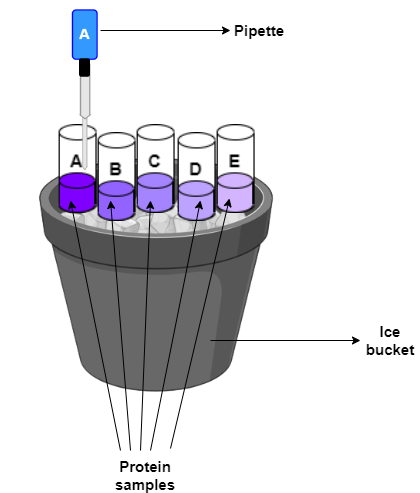
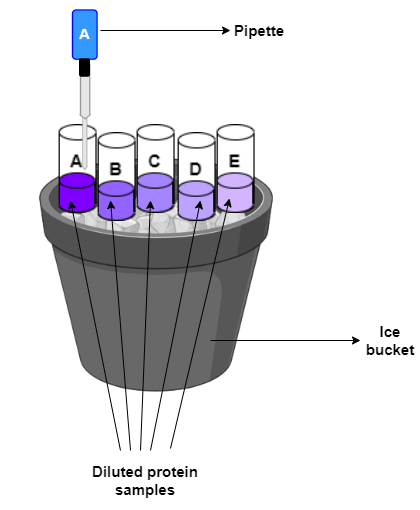
emsa

diff --git a/experiment/procedure.md b/experiment/procedure.md
@@ -16,7 +16,7 @@
 
 2. Prepare the protein sample by diluting it in binding buffer to the desired concentration. 
 <div align="center">
-<img src="images/reaction.png" class="img-fluid">
+<img src="images/samplprep.png" class="img-fluid">
 </div>
 
 3.	Mix the protein sample with the fluorescently-labelled DNA probe and incubate in ice for 20-30 minutes to allow the protein-DNA complex to form. 
